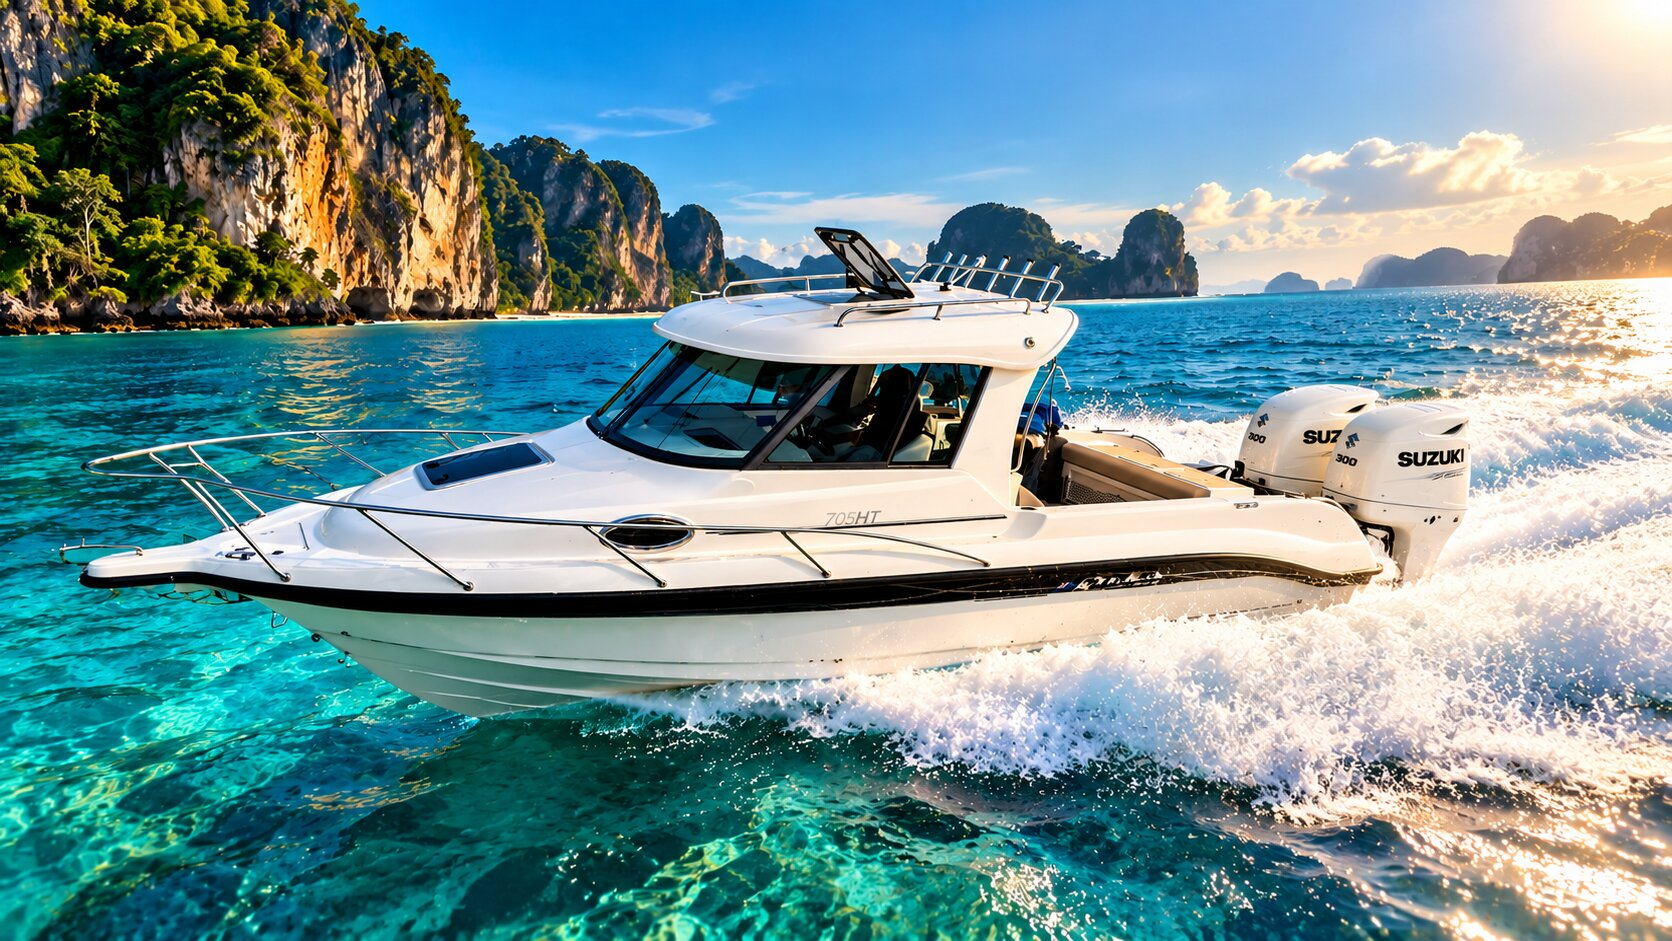
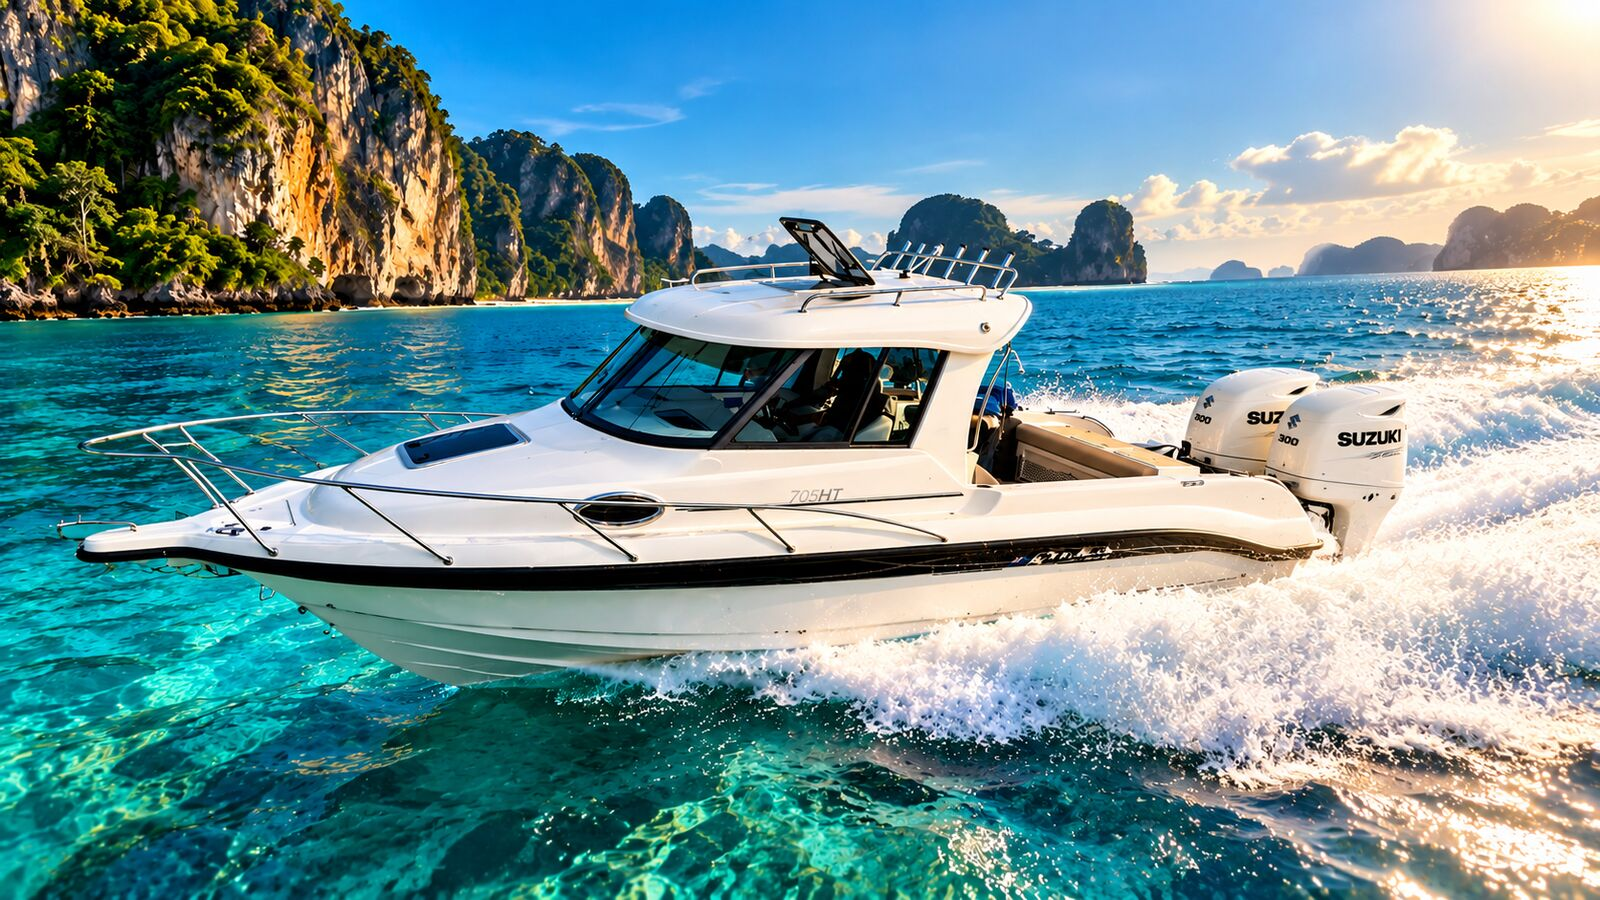
Hero: Koh Hong aerial; compress local images; SEO-named same-origin image URLs (/bilder/...) for generated photos
Claude-Session: https://claude.ai/code/session_01UQm3bgwSvMnterL882kaxH

Changed region(s): [[0.5312, 0.28, 0.5938, 0.3111], [0.25, 0.5289, 0.2812, 0.56], [0.25, 0.4044, 0.2812, 0.4356]]

diff --git a/src/components/secret-islands/content.ts b/src/components/secret-islands/content.ts
@@ -1,3 +1,4 @@
+import { seoImage } from "./image-map";
 export type Lang = "de" | "en" | "zh" | "ko" | "ja";
 /** Source strings: German + English. zh/ko/ja are looked up by the German text in ./i18n. */
 export type L = { de: string; en: string };
@@ -21,12 +22,11 @@ export const BRAND = {
 };
 
 /** Logo mark generated with Higgsfield (GPT Image 2.5). Move into /public/brand/ for production. */
-export const LOGO_URL =
-  "https://d8j0ntlcm91z4.cloudfront.net/user_37pB8NNBCXw21nrSwh5C0AozDjm/hf_20261004_044905_49752f2a-c380-4b9a-a061-294ac851b827.png";
+export const LOGO_URL = seoImage("krabi-secret-islands-logo.png");
 
 /** Higgsfield illustration: overcrowded longtail boat (used in the Longtail-vs-Speedboat story). Move to /public/images/ for production. */
 export const LONGTAIL_CROWD_IMG = {
-  src: "https://d8j0ntlcm91z4.cloudfront.net/user_37pB8NNBCXw21nrSwh5C0AozDjm/hf_20261004_051122_eda16af9-06c0-4627-ba34-f2df5c945e33_min.webp",
+  src: seoImage("longtail-boot-krabi-ueberfuellt.webp"),
   alt: {
     de: "Überfülltes Longtail-Boot in Krabi: genervtes Paar auf harten Holzbänken zwischen fremden Touristen und quengelnden Kindern",
     en: "Overcrowded longtail boat in Krabi: annoyed couple on hard wooden benches between strangers and whining children",
@@ -35,8 +35,8 @@ export const LONGTAIL_CROWD_IMG = {
 
 /** Higgsfield: our speedboat alone in a turquoise lagoon, couple relaxing with champagne. Move to /public/images/ for production. */
 export const ROMANCE_IMGS = [
-  "https://d8j0ntlcm91z4.cloudfront.net/user_37pB8NNBCXw21nrSwh5C0AozDjm/hf_20261004_051237_8e5ea54a-568d-4ca4-8bf4-78a0ddb50b78_min.webp",
-  "https://d8j0ntlcm91z4.cloudfront.net/user_37pB8NNBCXw21nrSwh5C0AozDjm/hf_20261004_051237_1d623517-1da5-4281-a981-3fcbf222bdb2_min.webp",
+  seoImage("privates-speedboat-krabi-paar-champagner-1.webp"),
+  seoImage("privates-speedboat-krabi-paar-champagner-2.webp"),
 ].map((src) => ({
   src,
   alt: {
@@ -45,34 +45,31 @@ export const ROMANCE_IMGS = [
   },
 }));
 
-/**
- * Scene photos generated with Higgsfield (GPT Image 2.5, 2K) for each tour, island and guide topic.
- * Served from the Higgsfield CDN (`_min.webp`); move into /public/images/ for production.
- */
-const hf = (id: string) => `https://d8j0ntlcm91z4.cloudfront.net/user_37pB8NNBCXw21nrSwh5C0AozDjm/${id}_min.webp`;
+/** Scene photos generated with Higgsfield (GPT Image 2.5, 2K), SEO-named via /bilder/ (see image-map.ts). */
 
 export const IMG = {
   // Our real speedboat (owner photo, /public/images). Never use stock photos showing longtail boats.
-  hero: "/images/krabi-secret-islands-privates-speedboat.webp",
+  // Hero: aerial of Koh Hong (owner-supplied photo, /public/images).
+  hero: "/images/koh-hong-krabi-luftaufnahme-strand-lagune.webp",
   boat: "/images/krabi-secret-islands-privates-speedboat.webp",
-  poda: hf("hf_20261005_002150_8d7c6492-5f34-4934-b3b4-75f0b9a82121"),
-  tup: hf("hf_20261005_002150_dfdc534c-9c4e-4bec-b0a0-7b576b419b45"),
-  hong: hf("hf_20261005_002150_9a0e33b6-f442-46a5-9017-2eda9b1de6a4"),
-  roi: hf("hf_20261005_002151_280755de-327f-4601-b6bd-311a5ea5251e"),
-  kudu: hf("hf_20261005_002151_c63538fc-208f-4006-9912-f9011184d205"),
-  maya: hf("hf_20261005_002150_68ec7119-d389-408e-8d9d-54589be6ed12"),
-  reef: hf("hf_20261005_002152_3dee514d-3244-4148-8ed2-cb0bb316fa60"),
-  snorkelCouple: hf("hf_20261005_002150_98a1e3a6-b5bc-4a7d-9b11-e3555a5db8e8"),
-  plankton: hf("hf_20261005_002152_f24dca4e-a654-4ac1-8de2-d84cfd0de8f4"),
-  fishReef: hf("hf_20261005_002151_b7e84fd8-797e-4d99-b423-402e02292489"),
-  deepSea: hf("hf_20261005_002151_a3ce8116-0f18-4d0e-81d8-0d77bf41ece2"),
-  squid: hf("hf_20261005_002149_a748fc59-1529-499e-ab29-09242a05de21"),
-  bbq: hf("hf_20261005_002200_1514cd4f-b5d3-4b48-8089-4193f0182997"),
-  dinner: hf("hf_20261005_002200_f4dd418a-7451-4032-ae1f-351ed5c93341"),
-  jamesBond: hf("hf_20261005_002200_9872044f-6330-4365-aceb-57ede1e306a3"),
-  railay: hf("hf_20261005_002159_b882635e-039b-43c1-b839-eaf0a7162ce7"),
-  droneAerial: hf("hf_20261005_002159_663f2830-4e95-483f-8ce4-ca8a82093d7d"),
-  family: hf("hf_20261005_002201_56ca4fae-a945-432b-9bae-69a8023e2e41"),
+  poda: seoImage("koh-poda-krabi-strand-kalksteinfelsen.webp"),
+  tup: seoImage("tup-sandbank-krabi-ebbe-drohnenaufnahme.webp"),
+  hong: seoImage("hong-island-krabi-smaragdgruene-lagune.webp"),
+  roi: seoImage("koh-roi-versteckte-lagune-phang-nga.webp"),
+  kudu: seoImage("koh-kudu-hong-hoehle-phang-nga.webp"),
+  maya: seoImage("maya-bay-phi-phi-sonnenaufgang.webp"),
+  reef: seoImage("schnorcheln-krabi-korallenriff-schildkroete.webp"),
+  snorkelCouple: seoImage("paar-schnorcheln-privates-speedboat-krabi.webp"),
+  plankton: seoImage("leuchtendes-plankton-krabi-nacht-speedboat.webp"),
+  fishReef: seoImage("riff-angeln-krabi-zackenbarsch.webp"),
+  deepSea: seoImage("hochsee-angeln-trolling-andamanensee.webp"),
+  squid: seoImage("tintenfisch-angeln-nacht-krabi.webp"),
+  bbq: seoImage("strand-bbq-sonnenuntergang-krabi.webp"),
+  dinner: seoImage("candlelight-dinner-speedboat-sonnenuntergang-krabi.webp"),
+  jamesBond: seoImage("james-bond-island-phang-nga-bucht.webp"),
+  railay: seoImage("railay-beach-krabi-goldene-stunde.webp"),
+  droneAerial: seoImage("speedboat-krabi-drohnenaufnahme-inseln.webp"),
+  family: seoImage("familie-sandbank-krabi-kinder-schnorcheln.webp"),
   // Generic aliases used across guide articles and gallery.
   sandbar: "",
   lagoon: "",

diff --git a/src/routeTree.gen.ts b/src/routeTree.gen.ts
@@ -21,6 +21,7 @@ import { Route as SecretIslandsRouteImport } from './routes/secret-islands'
 import { Route as SitemapDotxmlRouteImport } from './routes/sitemap[.]xml'
 import { Route as ApiAgentRouteImport } from './routes/api/agent'
 import { Route as ApiImgRouteImport } from './routes/api/img'
+import { Route as BilderFileRouteImport } from './routes/bilder.$file'
 import { Route as ChatsIdRouteImport } from './routes/chats.$id'
 import { Route as ItemIdRouteImport } from './routes/item.$id'
 import { Route as KrabiGuideIndexRouteImport } from './routes/krabi-guide.index'
@@ -93,6 +94,11 @@ const ApiAgentRoute = ApiAgentRouteImport.update({
 const ApiImgRoute = ApiImgRouteImport.update({
   id: '/api/img',
   path: '/api/img',
+  getParentRoute: () => rootRouteImport,
+} as any)
+const BilderFileRoute = BilderFileRouteImport.update({
+  id: '/bilder/$file',
+  path: '/bilder/$file',
   getParentRoute: () => rootRouteImport,
 } as any)
 const ChatsIdRoute = ChatsIdRouteImport.update({
@@ -177,6 +183,7 @@ export interface FileRoutesByFullPath {
   '/sitemap.xml': typeof SitemapDotxmlRoute
   '/api/agent': typeof ApiAgentRouteWithChildren
   '/api/img': typeof ApiImgRouteWithChildren
+  '/bilder/$file': typeof BilderFileRoute
   '/chats/$id': typeof ChatsIdRoute
   '/item/$id': typeof ItemIdRoute
   '/krabi-guide/$slug': typeof KrabiGuideSlugRoute
@@ -204,6 +211,7 @@ export interface FileRoutesByTo {
   '/sitemap.xml': typeof SitemapDotxmlRoute
   '/api/agent': typeof ApiAgentRouteWithChildren
   '/api/img': typeof ApiImgRouteWithChildren
+  '/bilder/$file': typeof BilderFileRoute
   '/chats/$id': typeof ChatsIdRoute
   '/item/$id': typeof ItemIdRoute
   '/krabi-guide/$slug': typeof KrabiGuideSlugRoute
@@ -232,6 +240,7 @@ export interface FileRoutesById {
   '/sitemap.xml': typeof SitemapDotxmlRoute
   '/api/agent': typeof ApiAgentRouteWithChildren
   '/api/img': typeof ApiImgRouteWithChildren
+  '/bilder/$file': typeof BilderFileRoute
   '/chats/$id': typeof ChatsIdRoute
   '/item/$id': typeof ItemIdRoute
   '/krabi-guide/$slug': typeof KrabiGuideSlugRoute
@@ -261,6 +270,7 @@ export interface FileRouteTypes {
     | '/sitemap.xml'
     | '/api/agent'
     | '/api/img'
+    | '/bilder/$file'
     | '/chats/$id'
     | '/item/$id'
     | '/krabi-guide/$slug'
@@ -288,6 +298,7 @@ export interface FileRouteTypes {
     | '/sitemap.xml'
     | '/api/agent'
     | '/api/img'
+    | '/bilder/$file'
     | '/chats/$id'
     | '/item/$id'
     | '/krabi-guide/$slug'
@@ -315,6 +326,7 @@ export interface FileRouteTypes {
     | '/sitemap.xml'
     | '/api/agent'
     | '/api/img'
+    | '/bilder/$file'
     | '/chats/$id'
     | '/item/$id'
     | '/krabi-guide/$slug'
@@ -343,6 +355,7 @@ export interface RootRouteChildren {
   SitemapDotxmlRoute: typeof SitemapDotxmlRoute
   ApiAgentRoute: typeof ApiAgentRouteWithChildren
   ApiImgRoute: typeof ApiImgRouteWithChildren
+  BilderFileRoute: typeof BilderFileRoute
   ItemIdRoute: typeof ItemIdRoute
   KrabiGuideSlugRoute: typeof KrabiGuideSlugRoute
   ServiceIdRoute: typeof ServiceIdRoute
@@ -434,6 +447,13 @@ declare module '@tanstack/react-router' {
       path: '/api/img'
       fullPath: '/api/img'
       preLoaderRoute: typeof ApiImgRouteImport
+      parentRoute: typeof rootRouteImport
+    }
+    '/bilder/$file': {
+      id: '/bilder/$file'
+      path: '/bilder/$file'
+      fullPath: '/bilder/$file'
+      preLoaderRoute: typeof BilderFileRouteImport
       parentRoute: typeof rootRouteImport
     }
     '/chats/$id': {
@@ -604,6 +624,7 @@ const rootRouteChildren: RootRouteChildren = {
   SitemapDotxmlRoute: SitemapDotxmlRoute,
   ApiAgentRoute: ApiAgentRouteWithChildren,
   ApiImgRoute: ApiImgRouteWithChildren,
+  BilderFileRoute: BilderFileRoute,
   ItemIdRoute: ItemIdRoute,
   KrabiGuideSlugRoute: KrabiGuideSlugRoute,
   ServiceIdRoute: ServiceIdRoute,

diff --git a/src/components/secret-islands/image-map.ts b/src/components/secret-islands/image-map.ts
@@ -1,0 +1,34 @@
+/**
+ * SEO file names → Higgsfield CDN files. Served same-origin via `/bilder/<name>` (src/routes/bilder.$file.ts),
+ * which proxies the CDN with long-lived cache headers, so images get descriptive URLs on our own domain.
+ * When the files are moved into /public/images, drop the proxy and point IMG at the local paths.
+ */
+const CDN = "https://d8j0ntlcm91z4.cloudfront.net/user_37pB8NNBCXw21nrSwh5C0AozDjm/";
+
+export const SEO_IMAGES: Record<string, string> = {
+  "koh-poda-krabi-strand-kalksteinfelsen.webp": "hf_20261005_002150_8d7c6492-5f34-4934-b3b4-75f0b9a82121_min.webp",
+  "tup-sandbank-krabi-ebbe-drohnenaufnahme.webp": "hf_20261005_002150_dfdc534c-9c4e-4bec-b0a0-7b576b419b45_min.webp",
+  "hong-island-krabi-smaragdgruene-lagune.webp": "hf_20261005_002150_9a0e33b6-f442-46a5-9017-2eda9b1de6a4_min.webp",
+  "koh-roi-versteckte-lagune-phang-nga.webp": "hf_20261005_002151_280755de-327f-4601-b6bd-311a5ea5251e_min.webp",
+  "koh-kudu-hong-hoehle-phang-nga.webp": "hf_20261005_002151_c63538fc-208f-4006-9912-f9011184d205_min.webp",
+  "maya-bay-phi-phi-sonnenaufgang.webp": "hf_20261005_002150_68ec7119-d389-408e-8d9d-54589be6ed12_min.webp",
+  "schnorcheln-krabi-korallenriff-schildkroete.webp": "hf_20261005_002152_3dee514d-3244-4148-8ed2-cb0bb316fa60_min.webp",
+  "paar-schnorcheln-privates-speedboat-krabi.webp": "hf_20261005_002150_98a1e3a6-b5bc-4a7d-9b11-e3555a5db8e8_min.webp",
+  "leuchtendes-plankton-krabi-nacht-speedboat.webp": "hf_20261005_002152_f24dca4e-a654-4ac1-8de2-d84cfd0de8f4_min.webp",
+  "riff-angeln-krabi-zackenbarsch.webp": "hf_20261005_002151_b7e84fd8-797e-4d99-b423-402e02292489_min.webp",
+  "hochsee-angeln-trolling-andamanensee.webp": "hf_20261005_002151_a3ce8116-0f18-4d0e-81d8-0d77bf41ece2_min.webp",
+  "tintenfisch-angeln-nacht-krabi.webp": "hf_20261005_002149_a748fc59-1529-499e-ab29-09242a05de21_min.webp",
+  "strand-bbq-sonnenuntergang-krabi.webp": "hf_20261005_002200_1514cd4f-b5d3-4b48-8089-4193f0182997_min.webp",
+  "candlelight-dinner-speedboat-sonnenuntergang-krabi.webp": "hf_20261005_002200_f4dd418a-7451-4032-ae1f-351ed5c93341_min.webp",
+  "familie-sandbank-krabi-kinder-schnorcheln.webp": "hf_20261005_002201_56ca4fae-a945-432b-9bae-69a8023e2e41_min.webp",
+  "james-bond-island-phang-nga-bucht.webp": "hf_20261005_002200_9872044f-6330-4365-aceb-57ede1e306a3_min.webp",
+  "railay-beach-krabi-goldene-stunde.webp": "hf_20261005_002159_b882635e-039b-43c1-b839-eaf0a7162ce7_min.webp",
+  "speedboat-krabi-drohnenaufnahme-inseln.webp": "hf_20261005_002159_663f2830-4e95-483f-8ce4-ca8a82093d7d_min.webp",
+  "privates-speedboat-krabi-paar-champagner-1.webp": "hf_20261004_051237_8e5ea54a-568d-4ca4-8bf4-78a0ddb50b78_min.webp",
+  "privates-speedboat-krabi-paar-champagner-2.webp": "hf_20261004_051237_1d623517-1da5-4281-a981-3fcbf222bdb2_min.webp",
+  "longtail-boot-krabi-ueberfuellt.webp": "hf_20261004_051122_eda16af9-06c0-4627-ba34-f2df5c945e33_min.webp",
+  "krabi-secret-islands-logo.png": "hf_20261004_044905_49752f2a-c380-4b9a-a061-294ac851b827.png",
+};
+
+export const seoImage = (name: keyof typeof SEO_IMAGES & string) => `/bilder/${name}`;
+export const upstreamFor = (name: string): string | null => (SEO_IMAGES[name] ? CDN + SEO_IMAGES[name] : null);

diff --git a/src/components/secret-islands/i18n/ja.ts b/src/components/secret-islands/i18n/ja.ts
@@ -68,7 +68,7 @@ const dict: Record<string, string> = {
   "Reel: Ankunft Koh Kudu": "リール：Koh Kudu に到着",
   "Schnorcheln an Chicken Island": "Chicken Island でシュノーケリング",
   "Private Bucht von oben": "上空から見たプライベートビーチ",
-  "Koh Kudu – menschenleer": "Koh Kudu – 誰もいない島",
+  "Maya Bay – vor allen anderen": "Maya Bay – 誰よりも先に",
   "Korallengarten Koh Pakbia": "Koh Pakbia のサンゴ礁",
   "Reel: Hong-Lagune": "リール：Hong Lagoon",
   "Ihr privates Boot-Setup": "プライベートボートの船内",
@@ -559,11 +559,8 @@ const dict: Record<string, string> = {
   "Vorheriges": "前へ",
   "Nächstes": "次へ",
   "Video-Vorschau": "動画プレビュー",
-  "Suche löschen": "検索をクリア",
   "Alle Insider-Artikel: Inseln, Schnorchelspots, Gezeiten & Geheimtipps": "インサイダー記事をすべて：島々、シュノーケルスポット、潮の満ち引き＆とっておき情報",
   "Zum Insider Guide": "Insider Guide を開く",
-  "Beliebte Artikel im Insider Guide": "Insider Guide の人気記事",
-  "Top-Guide": "注目ガイド",
   "Bewertungen": "件のレビュー",
   "verifizierte Gäste": "認証済みのゲスト",
   "Zum Lesen anhalten: Maus darüber oder antippen & halten": "ホバーまたは長押しで一時停止",
@@ -615,6 +612,7 @@ const dict: Record<string, string> = {
   "Ab ฿4,500": "฿4,500〜",
   "pro Tour": "1ツアーあたり",
   "Angeln": "釣り",
+  "Luftaufnahme von Koh Hong bei Krabi: türkises Wasser, weißer Sandstrand und Kalksteinfelsen": "クラビ・Koh Hong の空撮：ターコイズの海、白い砂浜と石灰岩の断崖",
   "Nach unten scrollen": "下へスクロール",
   "← Wischen zum Vergleichen →": "← スワイプして比較 →",
   "Empfohlen": "おすすめ",

diff --git a/src/components/secret-islands/i18n/ko.ts b/src/components/secret-islands/i18n/ko.ts
@@ -68,7 +68,7 @@ const dict: Record<string, string> = {
   "Reel: Ankunft Koh Kudu": "릴: Koh Kudu 도착",
   "Schnorcheln an Chicken Island": "Chicken Island 스노클링",
   "Private Bucht von oben": "하늘에서 본 프라이빗 해변",
-  "Koh Kudu – menschenleer": "Koh Kudu – 인적 없는 섬",
+  "Maya Bay – vor allen anderen": "Maya Bay – 누구보다 먼저",
   "Korallengarten Koh Pakbia": "Koh Pakbia 산호 정원",
   "Reel: Hong-Lagune": "릴: Hong Lagoon",
   "Ihr privates Boot-Setup": "나만의 프라이빗 보트 세팅",
@@ -559,11 +559,8 @@ const dict: Record<string, string> = {
   "Vorheriges": "이전",
   "Nächstes": "다음",
   "Video-Vorschau": "영상 미리보기",
-  "Suche löschen": "검색 지우기",
   "Alle Insider-Artikel: Inseln, Schnorchelspots, Gezeiten & Geheimtipps": "모든 인사이더 아티클: 섬, 스노클링 스폿, 조수 & 비밀 팁",
   "Zum Insider Guide": "인사이더 가이드 열기",
-  "Beliebte Artikel im Insider Guide": "Insider Guide 인기 글",
-  "Top-Guide": "추천",
   "Bewertungen": "리뷰",
   "verifizierte Gäste": "인증된 게스트",
   "Zum Lesen anhalten: Maus darüber oder antippen & halten": "마우스를 올리거나 길게 눌러 일시정지",
@@ -615,6 +612,7 @@ const dict: Record<string, string> = {
   "Ab ฿4,500": "฿4,500부터",
   "pro Tour": "투어당",
   "Angeln": "낚시",
+  "Luftaufnahme von Koh Hong bei Krabi: türkises Wasser, weißer Sandstrand und Kalksteinfelsen": "끄라비 Koh Hong 항공 사진: 청록빛 바다, 하얀 모래사장과 석회암 절벽",
   "Nach unten scrollen": "아래로 스크롤",
   "← Wischen zum Vergleichen →": "← 스와이프해서 비교 →",
   "Empfohlen": "추천",

diff --git a/src/components/secret-islands/i18n/zh.ts b/src/components/secret-islands/i18n/zh.ts
@@ -68,7 +68,7 @@ const dict: Record<string, string> = {
   "Reel: Ankunft Koh Kudu": "短片：抵达 Koh Kudu",
   "Schnorcheln an Chicken Island": "Chicken Island 浮潜",
   "Private Bucht von oben": "俯瞰私人海湾",
-  "Koh Kudu – menschenleer": "Koh Kudu——空无一人",
+  "Maya Bay – vor allen anderen": "Maya Bay – 抢在所有人之前",
   "Korallengarten Koh Pakbia": "Koh Pakbia 珊瑚花园",
   "Reel: Hong-Lagune": "短片：Hong 泻湖",
   "Ihr privates Boot-Setup": "您的私人游船布置",
@@ -559,11 +559,8 @@ const dict: Record<string, string> = {
   "Vorheriges": "上一个",
   "Nächstes": "下一个",
   "Video-Vorschau": "视频预览",
-  "Suche löschen": "清除搜索",
   "Alle Insider-Artikel: Inseln, Schnorchelspots, Gezeiten & Geheimtipps": "全部内行文章：海岛、浮潜点、潮汐与私藏秘境",
   "Zum Insider Guide": "前往 Insider Guide",
-  "Beliebte Artikel im Insider Guide": "Insider Guide 热门文章",
-  "Top-Guide": "精选",
   "Bewertungen": "条评价",
   "verifizierte Gäste": "位认证宾客",
   "Zum Lesen anhalten: Maus darüber oder antippen & halten": "悬停或长按即可暂停阅读",
@@ -615,6 +612,7 @@ const dict: Record<string, string> = {
   "Ab ฿4,500": "฿4,500 起",
   "pro Tour": "每次行程",
   "Angeln": "钓鱼",
+  "Luftaufnahme von Koh Hong bei Krabi: türkises Wasser, weißer Sandstrand und Kalksteinfelsen": "甲米 Koh Hong 航拍：碧绿海水、白色沙滩与石灰岩峭壁",
   "Nach unten scrollen": "向下滚动",
   "← Wischen zum Vergleichen →": "← 滑动对比 →",
   "Empfohlen": "推荐",

diff --git a/src/components/secret-islands/ui.tsx b/src/components/secret-islands/ui.tsx
@@ -11,11 +11,16 @@ const SRCSET_WIDTHS = [480, 768, 1080, 1440, 1920];
  * so phones no longer download the 1200–1800 px desktop file. Other hosts: no srcSet.
  */
 /** Local images under /public/images with a pre-rendered 900 px variant (`name-900.webp`). */
-const LOCAL_VARIANTS: Record<string, number> = { "/images/krabi-secret-islands-privates-speedboat.webp": 1672 };
+const LOCAL_VARIANTS: Record<string, string> = {
+  "/images/krabi-secret-islands-privates-speedboat.webp":
+    "/images/krabi-secret-islands-privates-speedboat-900.webp 900w, /images/krabi-secret-islands-privates-speedboat.webp 1672w",
+  "/images/koh-hong-krabi-luftaufnahme-strand-lagune.webp":
+    "/images/koh-hong-krabi-luftaufnahme-strand-lagune-720.webp 720w, /images/koh-hong-krabi-luftaufnahme-strand-lagune.webp 1080w",
+};
 
 export function unsplashSrcSet(src: string): string | undefined {
   const local = LOCAL_VARIANTS[src];
-  if (local) return `${src.replace(/\.webp$/, "-900.webp")} 900w, ${src} ${local}w`;
+  if (local) return local;
   if (!src.startsWith("https://images.unsplash.com/")) return undefined;
   const m = /[?&]w=(\d+)/.exec(src);
   if (!m) return undefined;

diff --git a/src/components/secret-islands/sections-top.tsx b/src/components/secret-islands/sections-top.tsx
@@ -307,7 +307,7 @@ export function Hero() {
     <>
       <section ref={ref} id="top" className="relative isolate flex min-h-[100svh] items-end overflow-hidden">
         <motion.div style={{ y: bgY, scale: bgScale }} className="si-fallback absolute inset-0 -z-20 will-change-transform">
-          <SmartImage src={IMG.hero} alt={t({ de: "Privates Speedboat von Krabi Secret Islands vor den Kalksteininseln von Krabi", en: "Krabi Secret Islands private speedboat in front of Krabi's limestone islands" })} priority className="absolute inset-0 size-full object-cover" />
+          <SmartImage src={IMG.hero} alt={t({ de: "Luftaufnahme von Koh Hong bei Krabi: türkises Wasser, weißer Sandstrand und Kalksteinfelsen", en: "Aerial view of Koh Hong near Krabi: turquoise water, white sand beach and limestone cliffs" })} priority className="absolute inset-0 size-full object-cover object-[50%_62%]" />
         </motion.div>
         <div className="absolute inset-0 -z-10 bg-gradient-to-t from-si-navy via-si-navy/60 to-si-navy/20" />
         <div className="absolute inset-0 -z-10 bg-[radial-gradient(80%_60%_at_15%_85%,rgb(6_182_212/0.25),transparent_70%)]" />

diff --git a/src/routes/bilder.$file.ts b/src/routes/bilder.$file.ts
@@ -1,0 +1,25 @@
+import { createFileRoute } from "@tanstack/react-router";
+import { upstreamFor } from "@/components/secret-islands/image-map";
+
+/**
+ * /bilder/<seo-name>.webp – same-origin, SEO-named image URLs for the generated scene photos.
+ * Proxies the Higgsfield CDN once; Vercel's edge then serves it from cache for a year.
+ */
+export const Route = createFileRoute("/bilder/$file")({
+  server: {
+    handlers: {
+      GET: async ({ params }) => {
+        const upstream = upstreamFor(params.file);
+        if (!upstream) return new Response("Not found", { status: 404 });
+        const res = await fetch(upstream);
+        if (!res.ok || !res.body) return new Response("Upstream error", { status: 502 });
+        return new Response(res.body, {
+          headers: {
+            "content-type": res.headers.get("content-type") ?? (params.file.endsWith(".png") ? "image/png" : "image/webp"),
+            "cache-control": "public, max-age=31536000, s-maxage=31536000, immutable",
+          },
+        });
+      },
+    },
+  },
+});

diff --git a/src/components/secret-islands/seo.ts b/src/components/secret-islands/seo.ts
@@ -40,7 +40,6 @@ export function langLinks(path: string, lang: Lang, available: readonly Lang[]) 
 /** Shared <head> links of the Secret Islands / Insider Guide pages. */
 export const BRAND_HEAD_LINKS = [
   { rel: "icon", type: "image/png", href: LOGO_URL },
-  { rel: "preconnect", href: "https://images.unsplash.com" },
   {
     rel: "stylesheet",
     href: "https://fonts.googleapis.com/css2?family=Plus+Jakarta+Sans:wght@400;500;600;700;800&display=swap",
@@ -81,8 +80,7 @@ export function businessNode(lang: Lang): Json {
     "@id": BUSINESS_ID,
     name: BRAND.name,
     url: `${SITE_URL}${LANDING_PATH}`,
-    // TODO(owner): move the logo to /public/brand/krabi-secret-islands-logo.png (own domain) and update LOGO_URL.
-    logo: LOGO_URL,
+    logo: `${SITE_URL}${LOGO_URL}`,
     image: `${SITE_URL}/images/krabi-secret-islands-privates-speedboat.jpg`,
     email: BRAND.email,
     // TODO(owner): `telephone` omitted on purpose – BRAND.whatsapp is still a placeholder number.

diff --git a/docs/images.md b/docs/images.md
@@ -1,0 +1,12 @@
+# Bilder – Übersicht (SEO-Namen & Komprimierung)
+
+| Pfad | Quelle | Größe / Format |
+|---|---|---|
+| `/images/koh-hong-krabi-luftaufnahme-strand-lagune.webp` (+ `-720.webp`) | Owner-Foto (Hero) | 186 KB / 111 KB WebP, Metadaten entfernt |
+| `/images/krabi-secret-islands-privates-speedboat.webp` (+ `-900.webp`, `.jpg`) | Owner-Foto (Boot, og:image) | 229 KB / 96 KB WebP, 325 KB JPG (progressiv) |
+| `/bilder/<seo-name>.webp` (21 Dateien, Liste in `src/components/secret-islands/image-map.ts`) | Higgsfield (2K, `_min.webp`) | über Same-Origin-Proxy, 1 Jahr Edge-Cache |
+
+`/bilder/*` wird von `src/routes/bilder.$file.ts` aus dem Higgsfield-CDN geladen und von Vercel gecacht.
+Sobald `d8j0ntlcm91z4.cloudfront.net` im Netzwerkzugang erlaubt ist: Dateien herunterladen, nach `public/images/`
+legen (Namen aus `image-map.ts` übernehmen), mit `convert -strip -quality 78` + 900px-Variante komprimieren und
+`seoImage()` auf `/images/` umstellen.
